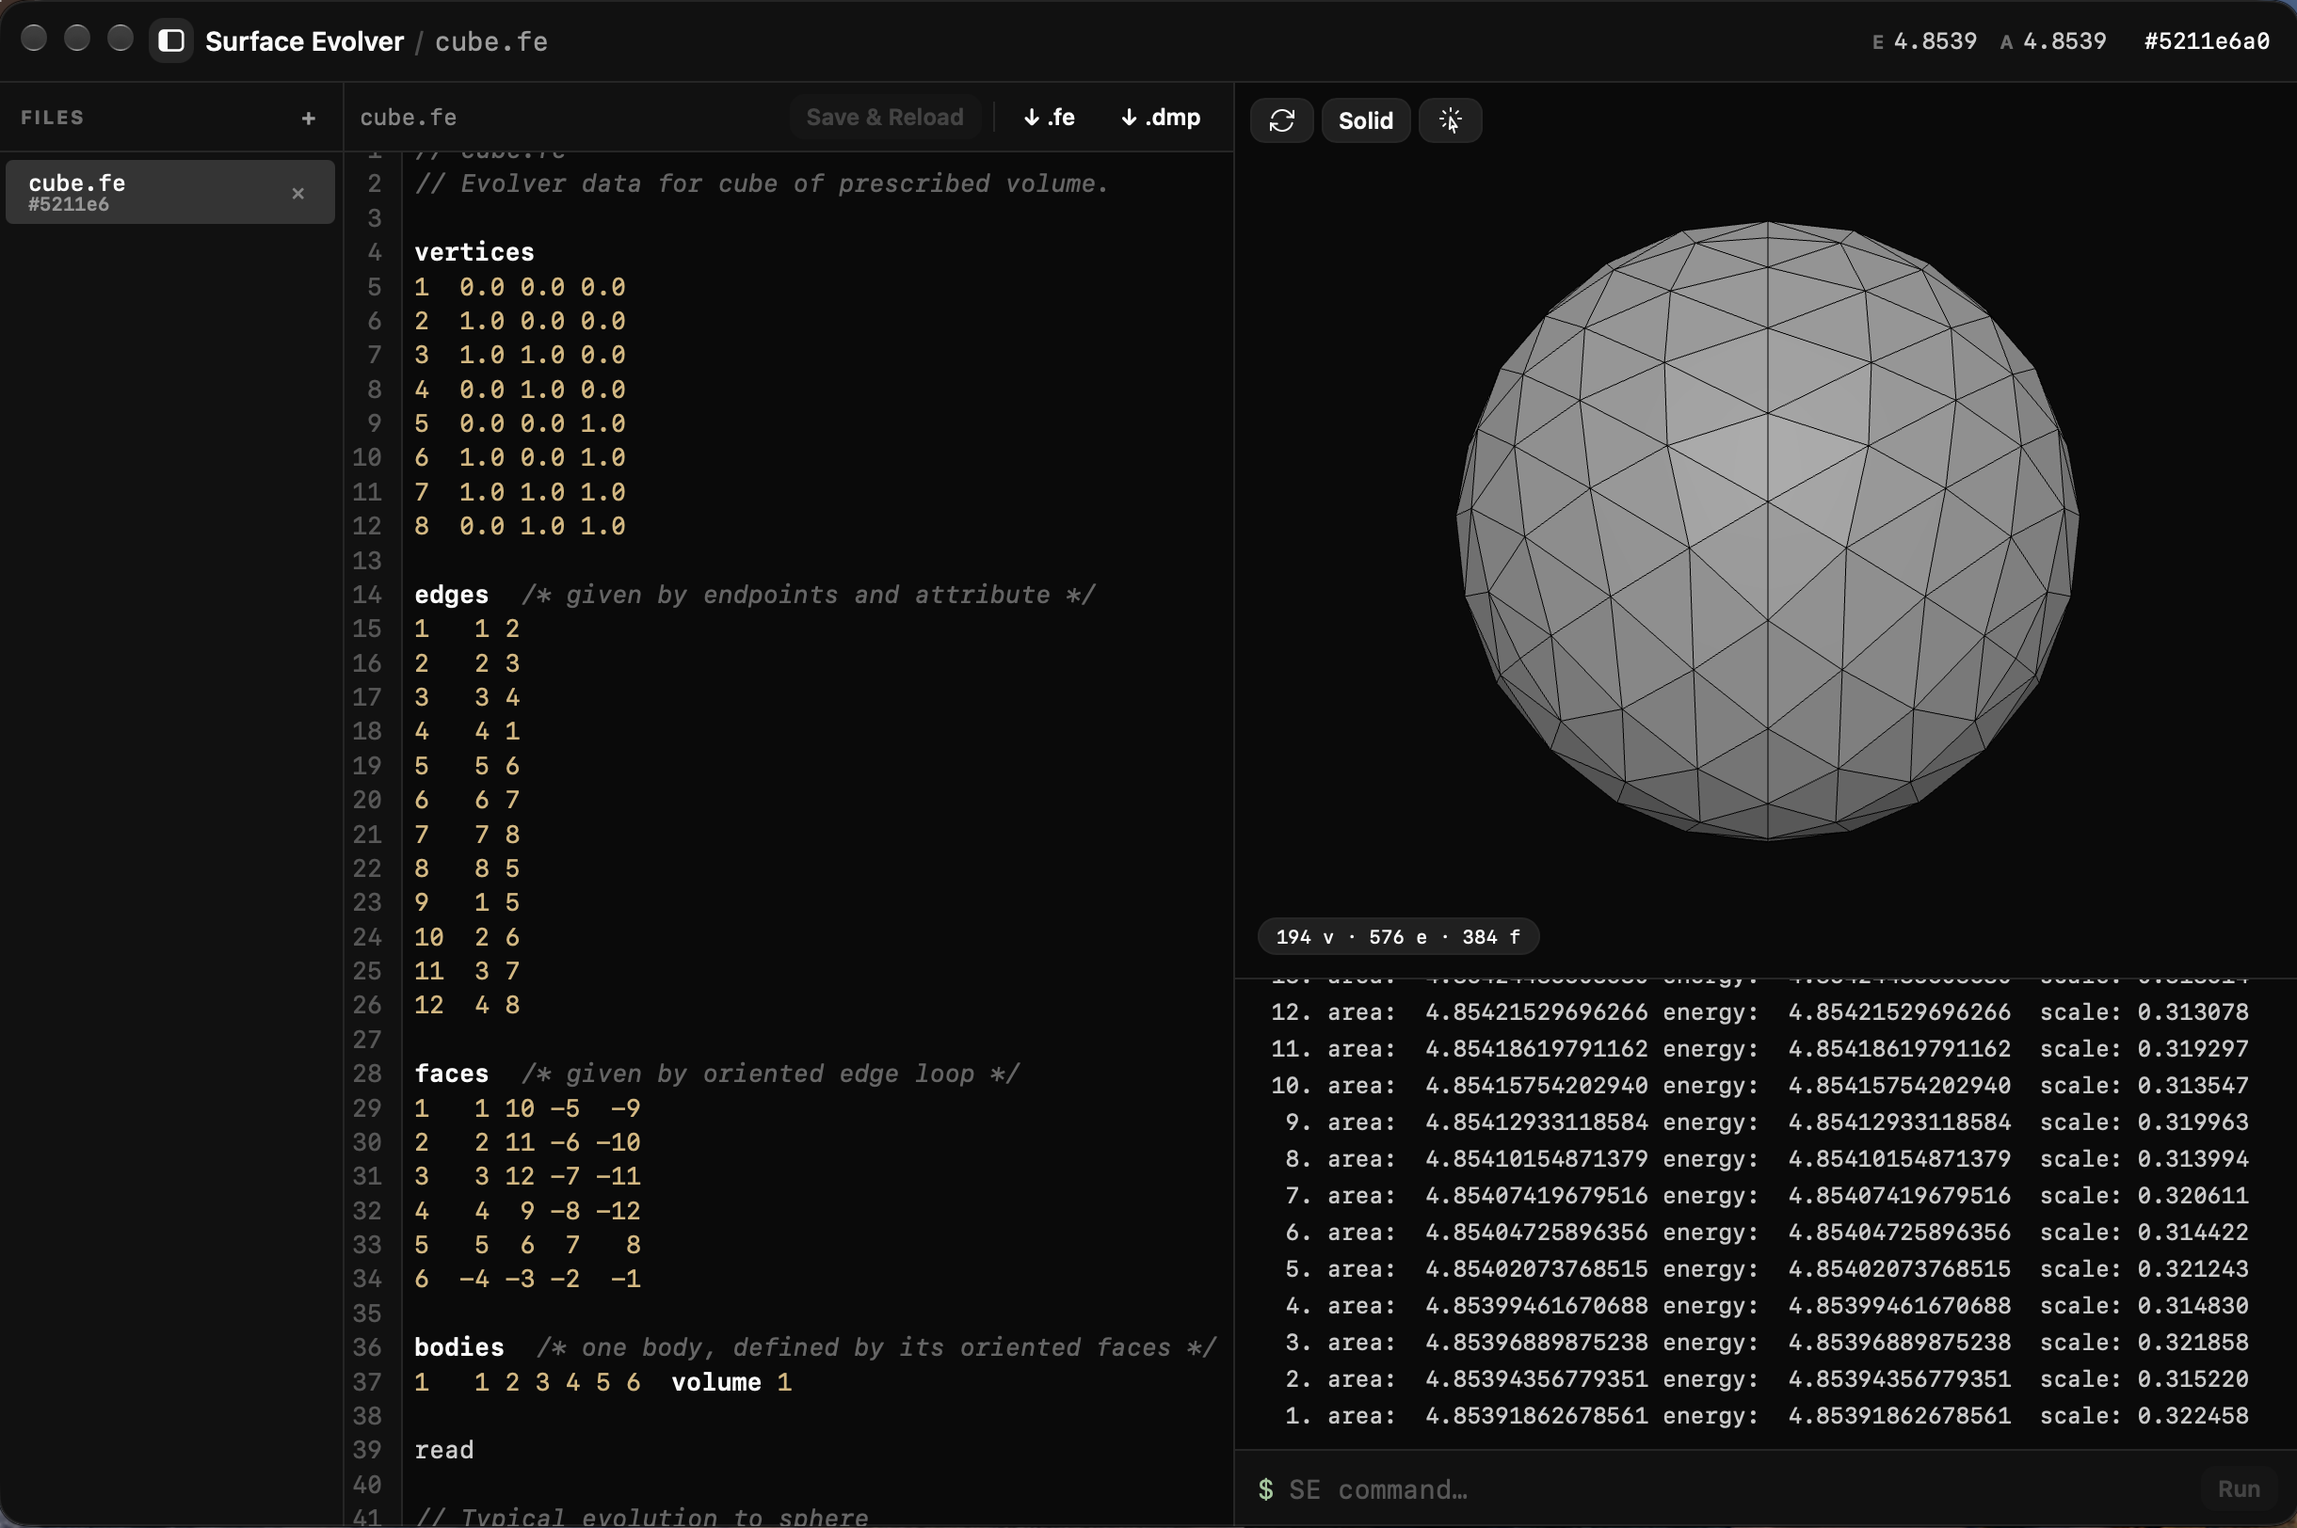
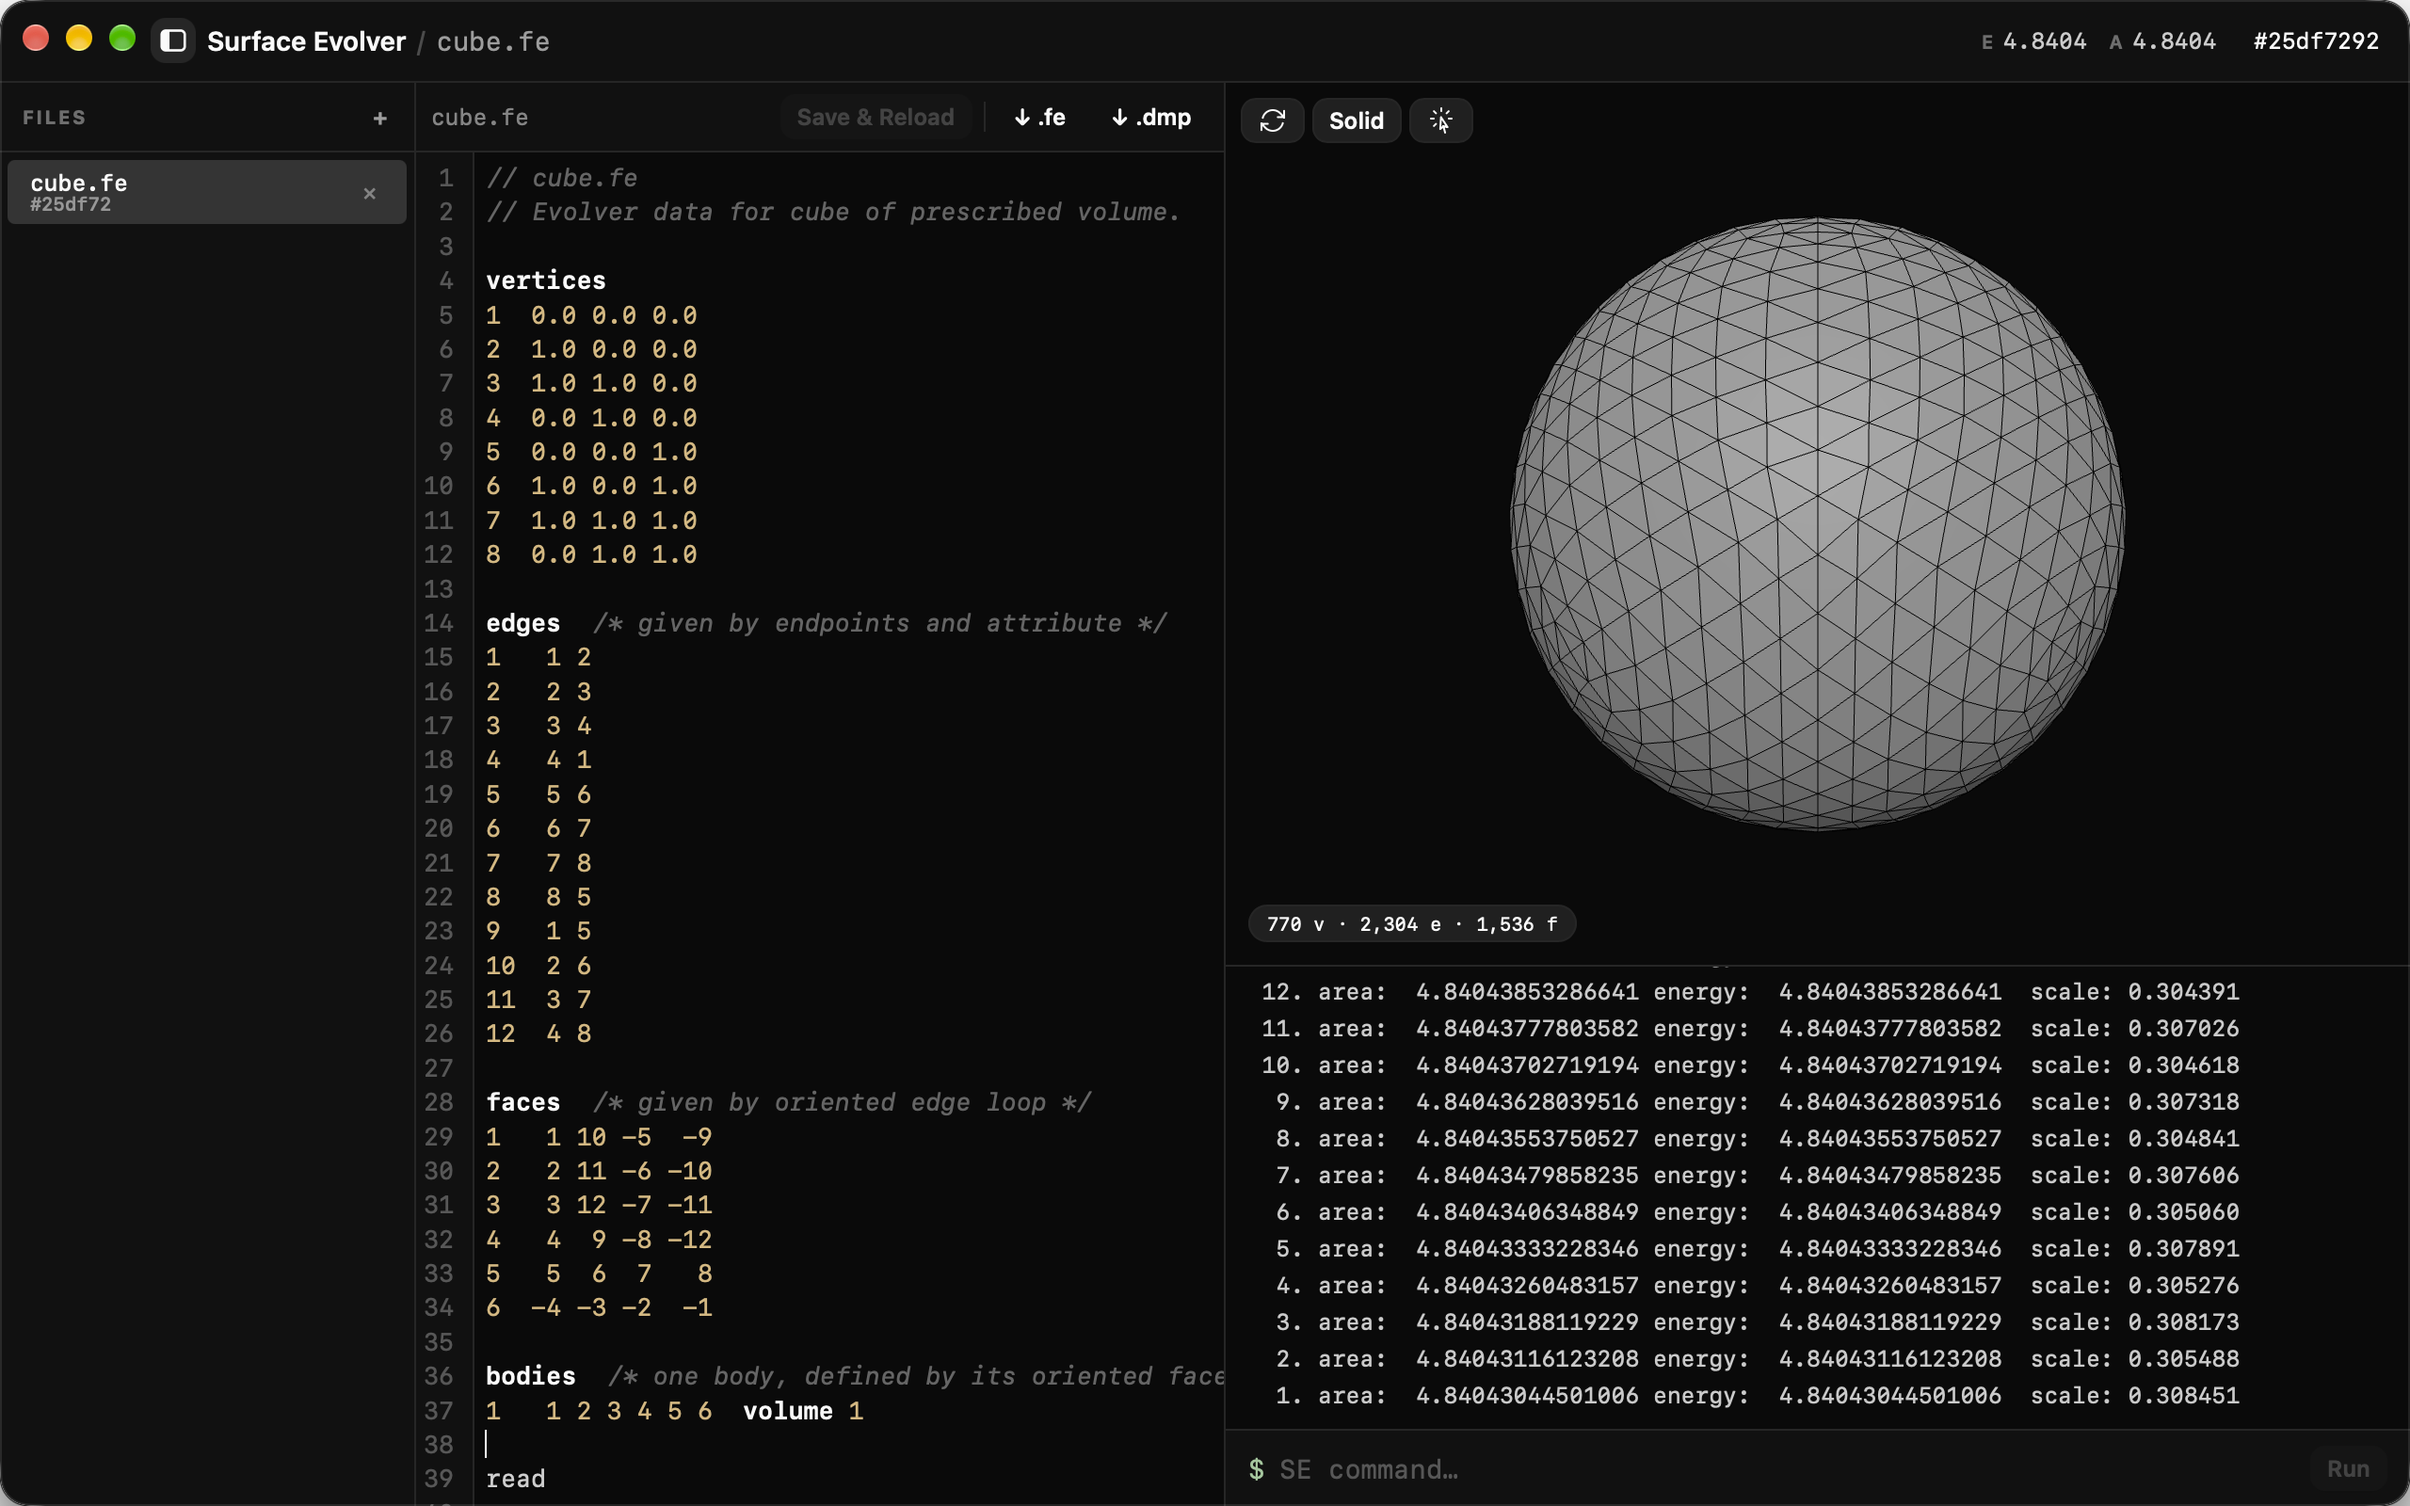
Replace hero screenshots: clean light capture, refined three times
The previous light capture was garbled by a Siri overlay. New light and dark
captures show cube.fe refined three times (770 v, 2,304 e, 1,536 f), cropped
from the window captures to the 2560×1600 window itself, so the declared
Image size returns to 1280×800 and the caption says "three times".

diff --git a/components/Hero.tsx b/components/Hero.tsx
@@ -63,22 +63,22 @@ export default function Hero() {
             <Image
               src="/app-screenshot-light.png"
               alt="Surface Evolver desktop app: .fe datafile editor, command log, and a cube evolved into a sphere in the 3D viewer"
-              width={1220}
-              height={812}
+              width={1280}
+              height={800}
               fetchPriority="high"
               className="shot-light w-full"
             />
             <Image
               src="/app-screenshot-dark.png"
               alt="Surface Evolver desktop app in dark mode: .fe datafile editor, command log, and a cube evolved into a sphere in the 3D viewer"
-              width={1220}
-              height={812}
+              width={1280}
+              height={800}
               fetchPriority="high"
               className="shot-dark w-full"
             />
           </div>
           <figcaption className="mt-4 text-center text-sm text-base-content/40">
-            <code className="font-mono">cube.fe</code> refined twice and evolved
+            <code className="font-mono">cube.fe</code> refined three times and evolved
             to a sphere under its volume constraint — energy and area update
             live in the titlebar, mesh counts in the viewer.
           </figcaption>
